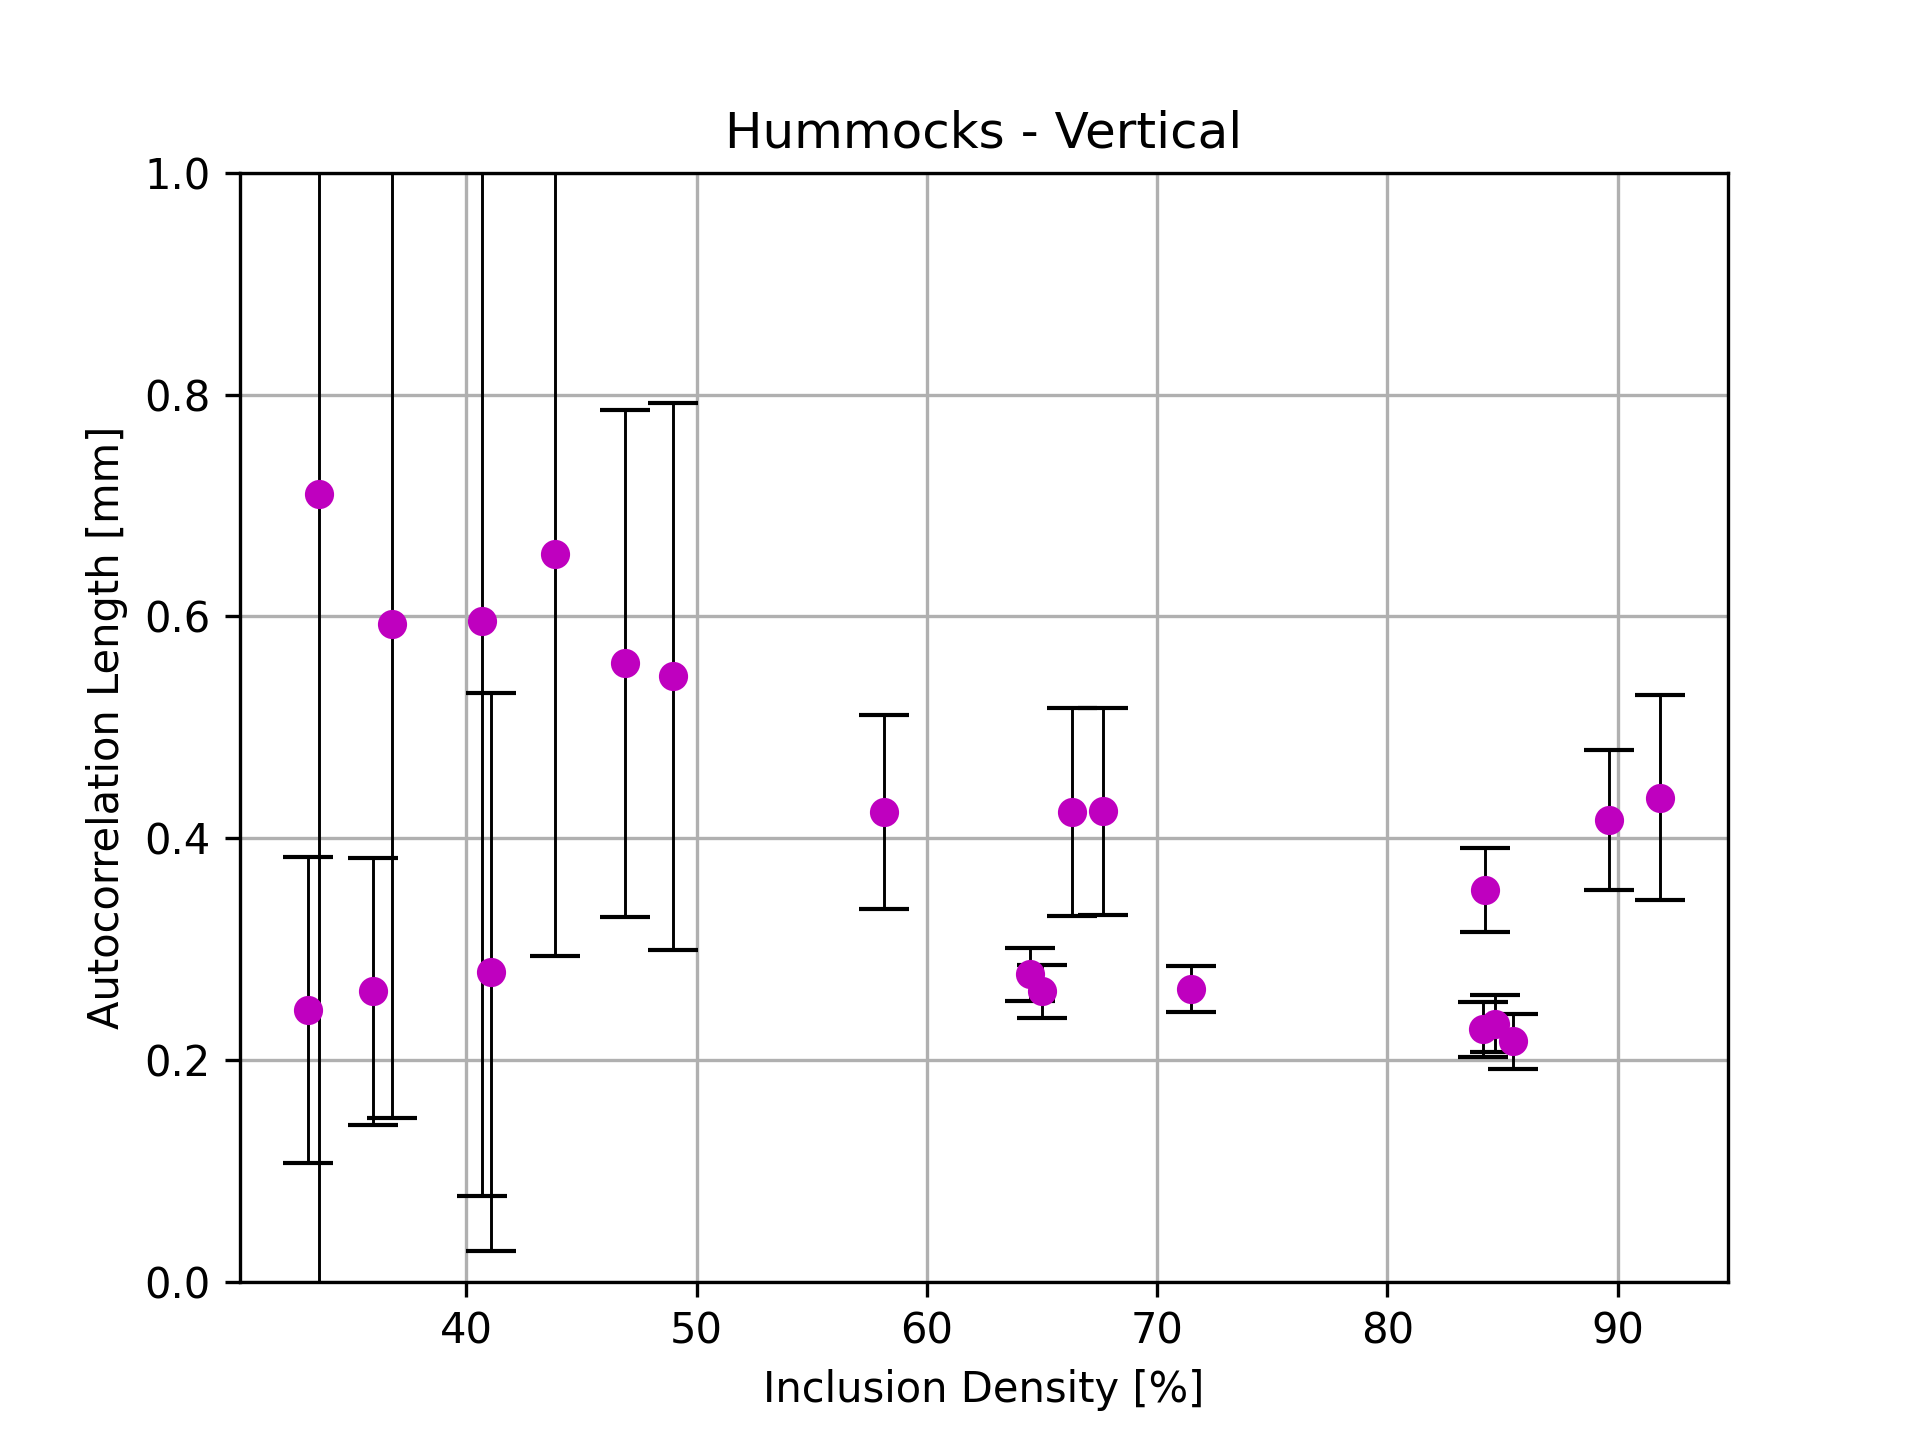
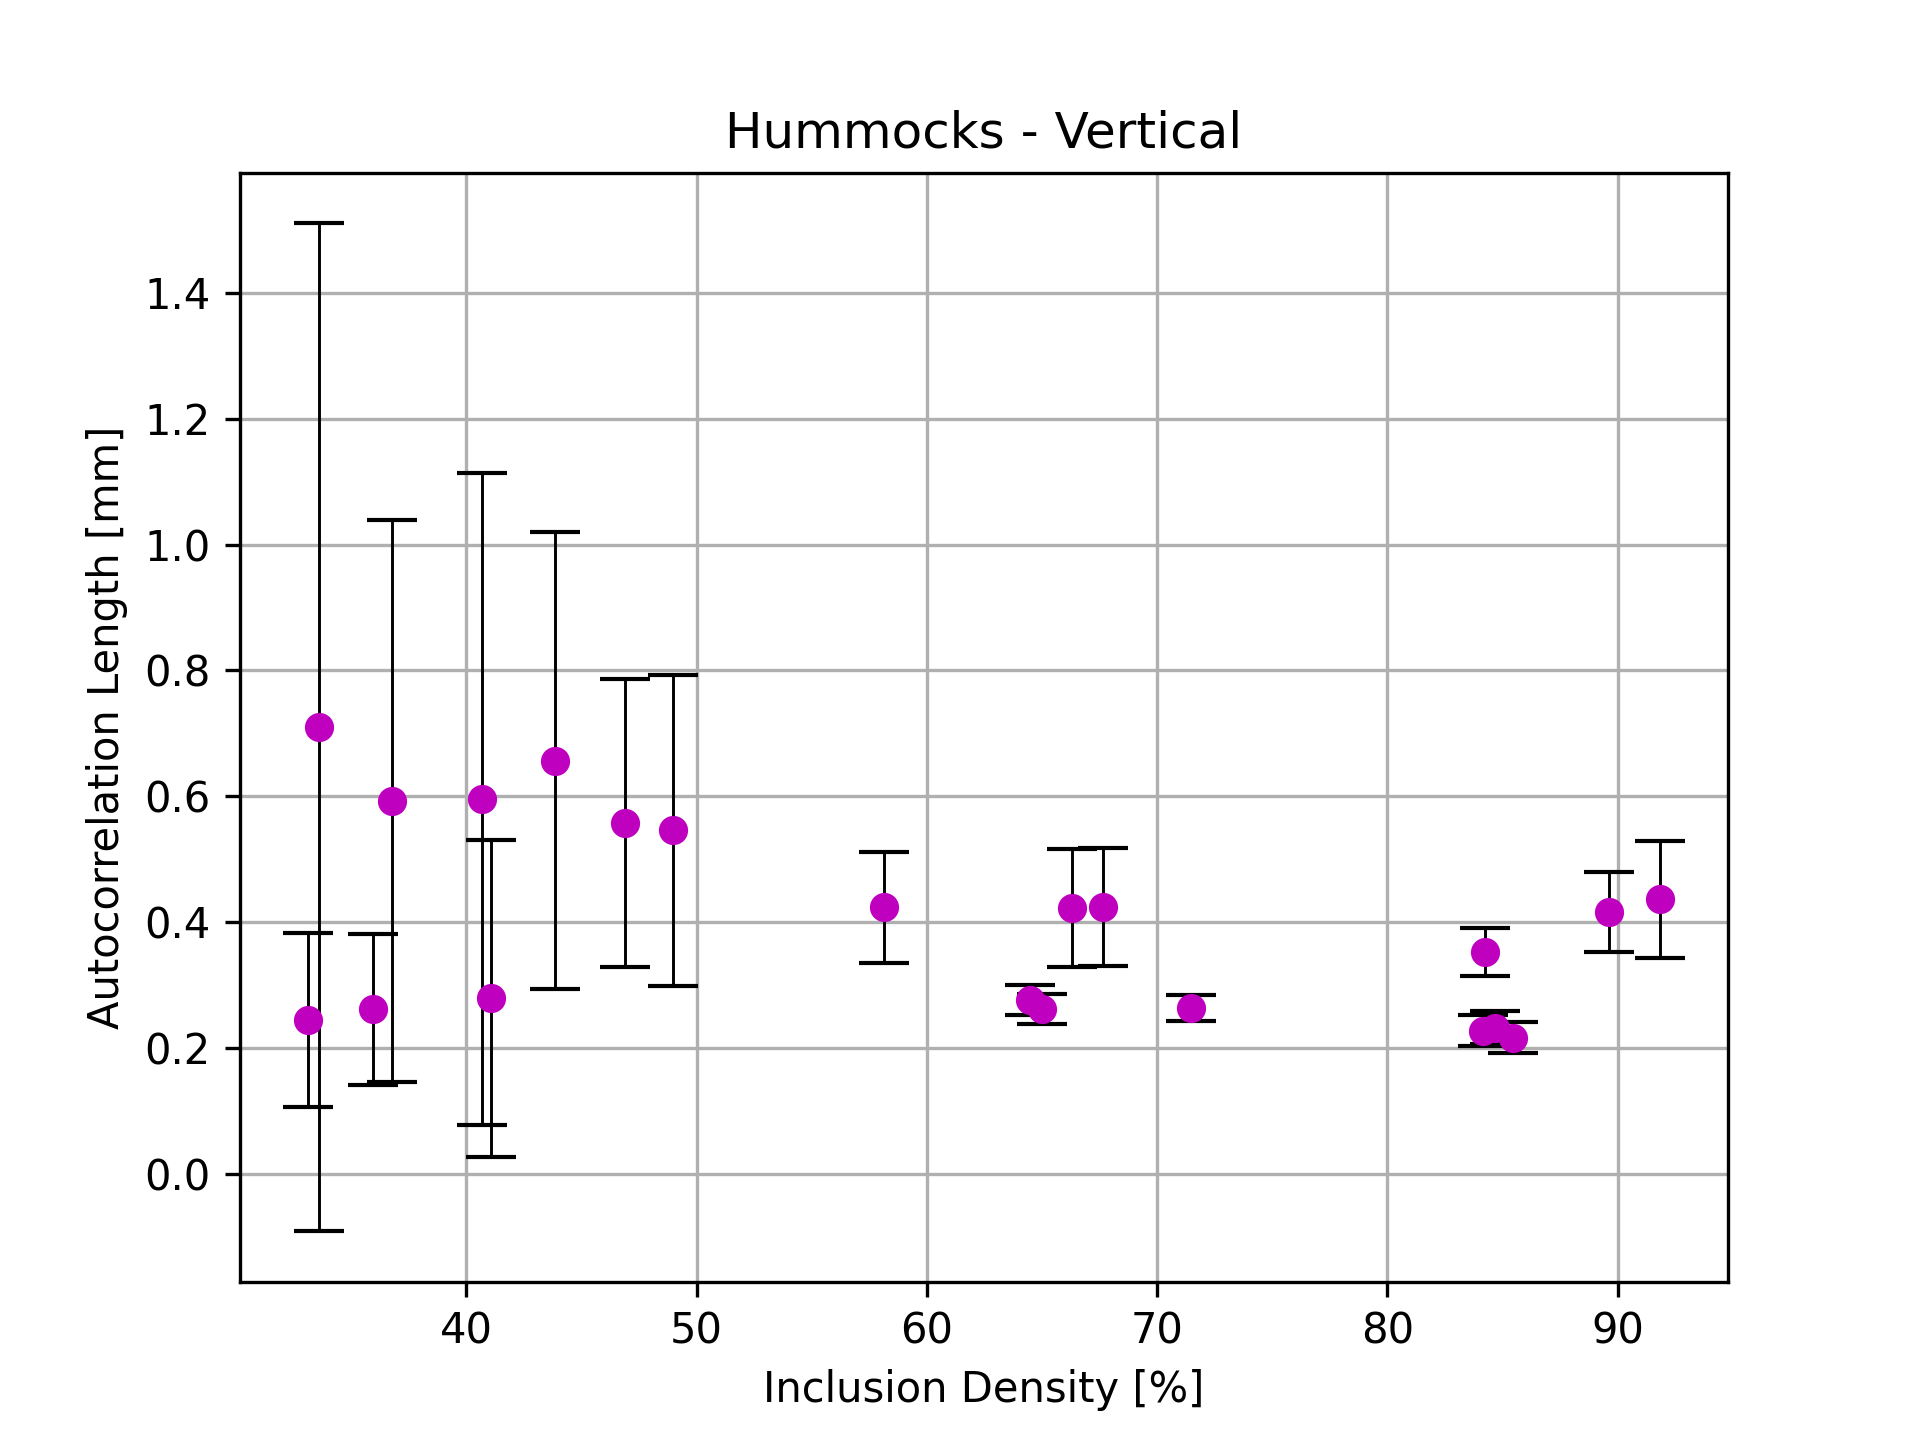
fun with plots

diff --git a/DensityPlot.py b/DensityPlot.py
@@ -37,7 +37,7 @@ def Density_plot(compdata,splitter,texts):
         plt.ylabel('Autocorrelation Length [mm]')
         plt.title(tx + ' - ' + 'Horizontal')
         plt.grid(True)
-        plt.ylim([0,1])
+        #plt.ylim([0,1])
         plt.savefig('plotimg/' + tx.replace(' ','_') + '_H.png',dpi=300,format='png')
         #plt.show(block='True')
         plt.close()
@@ -47,7 +47,7 @@ def Density_plot(compdata,splitter,texts):
         plt.ylabel('Autocorrelation Length [mm]')
         plt.title(tx + ' - ' + 'Vertical')
         plt.grid(True)
-        plt.ylim([0,1])
+        #plt.ylim([0,1])
         plt.savefig('plotimg/' + tx.replace(' ','_') + '_V.png',dpi=300,format='png')
         #plt.show(block='True')
         plt.close()
@@ -70,7 +70,7 @@ def Density_plot(compdata,splitter,texts):
         idxback = splitter[i]
 
     ax1.set_title('Horizontal')
-    ax1.set_ylim([0,0.8])
+    ax1.set_ylim([0,0.5])
     ax2.set_ylim([0,0.8])
     ax2.set_title('Vertical')
     fig1.supxlabel('Image No.')
